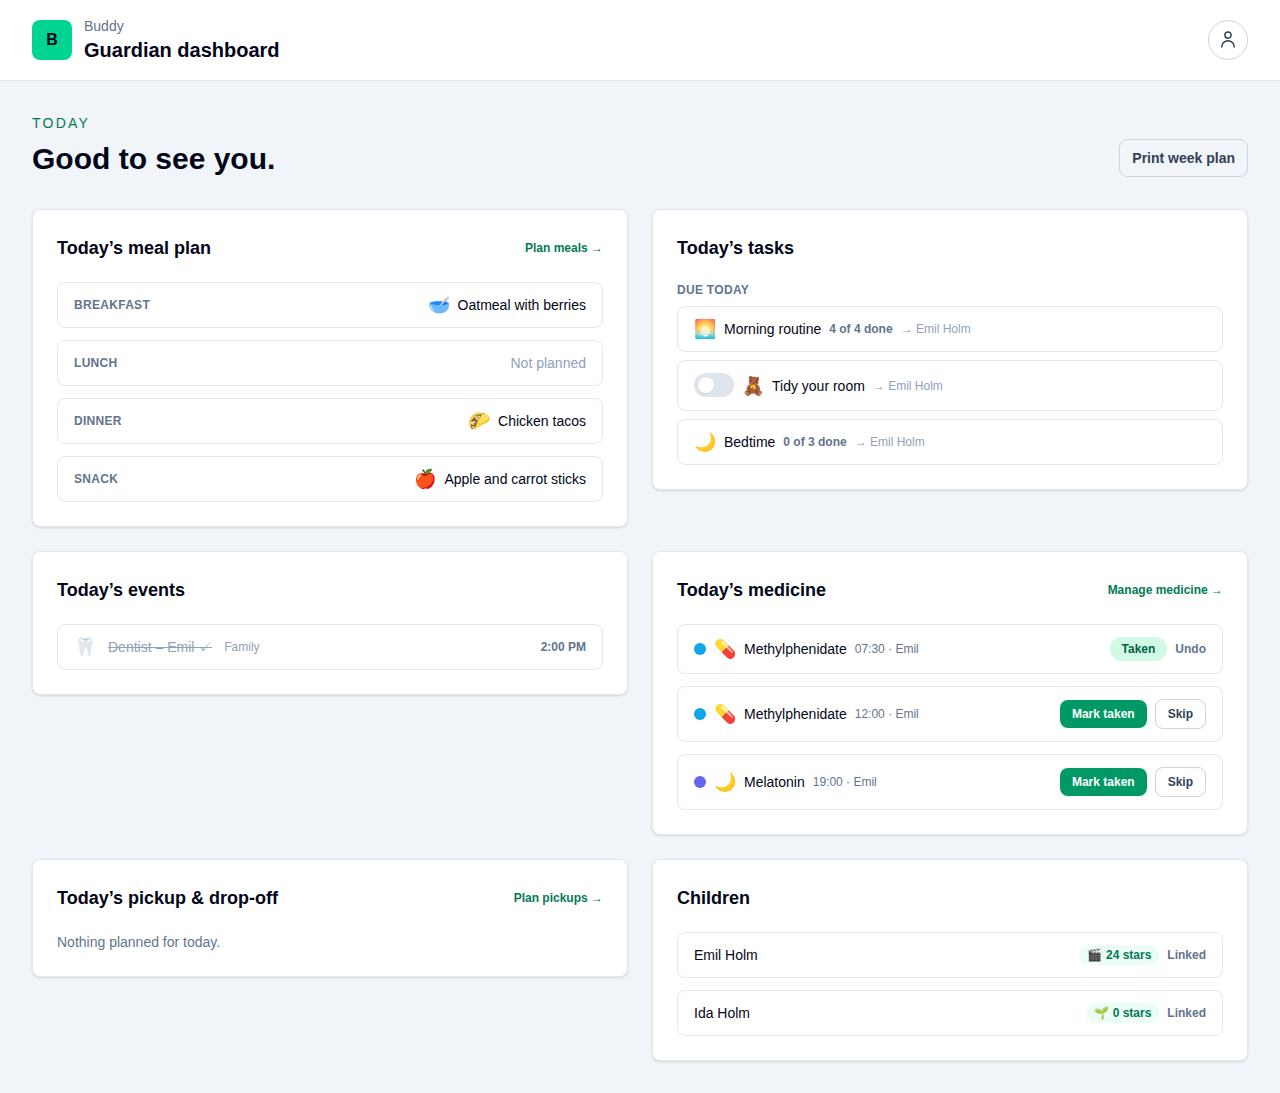
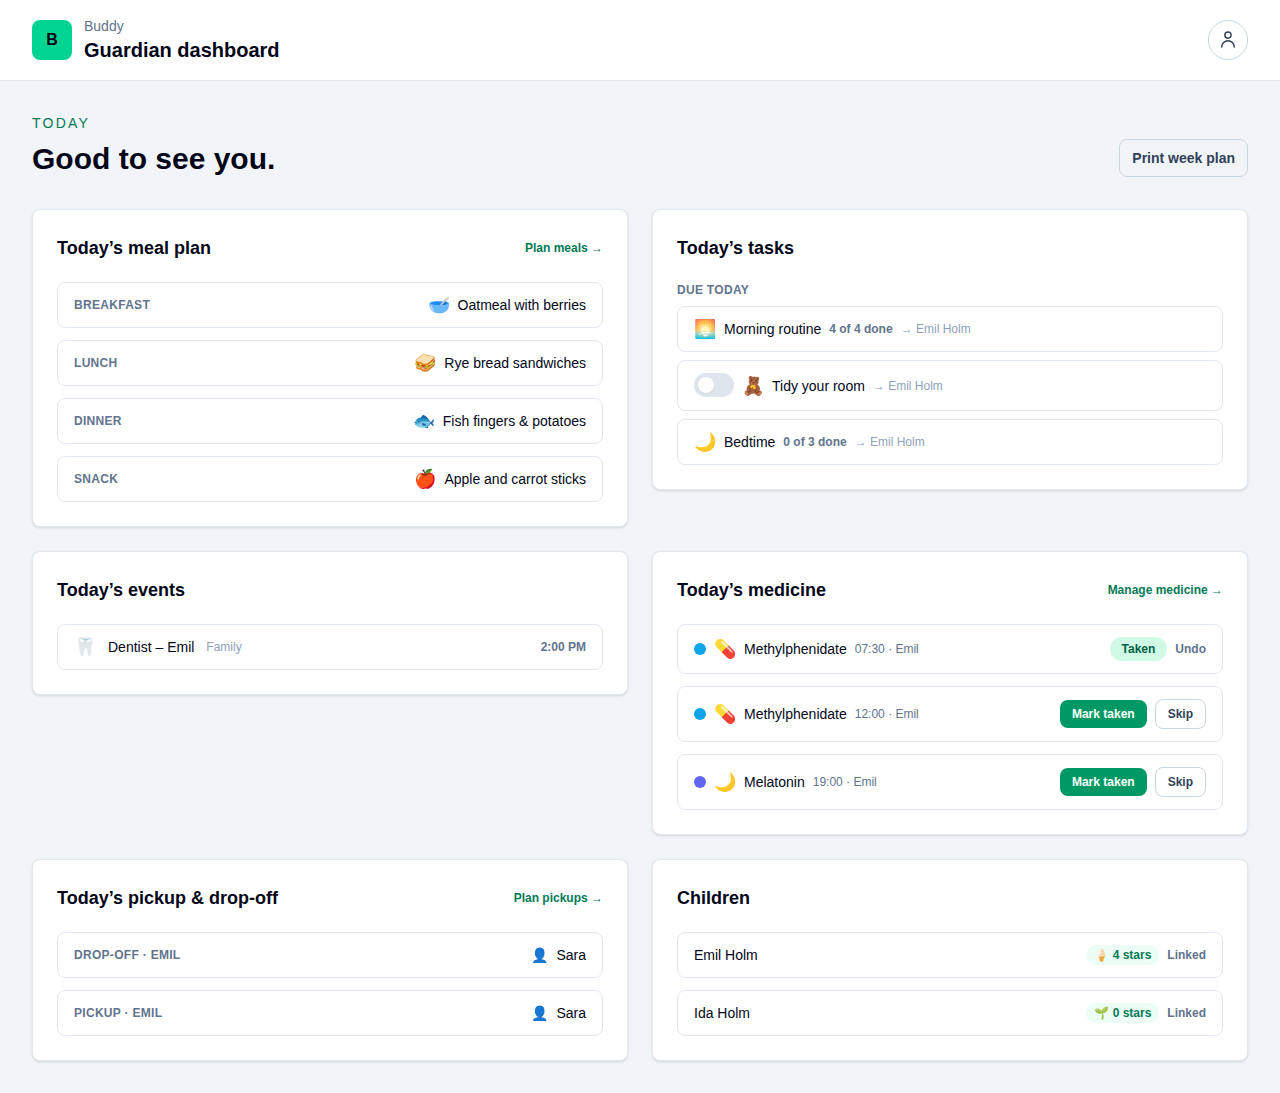
docs: sync documentation (auto)

diff --git a/docs/backend/analysis/babysitters.md b/docs/backend/analysis/babysitters.md
@@ -1,6 +1,10 @@
 # Babysitters
 
-Status: Proposed (not yet implemented)
+Status: Implemented. `Features/Babysitters` ships the `BabysitterList` aggregate, the five slices
+and routes below, the inline snapshot, golden files and integration tests; `Pickups` gains the
+`PickupAssignee.Babysitter` case (wire `kind` 4) with names resolved through `BabysitterNames`.
+The frontend ships `BabysittersService`, `/guardian/babysitters`, a "Babysitter" kind in the pickup
+planner, and babysitter names on the dashboard, the child home and the printed week plan.
 
 ## Context
 
@@ -121,9 +125,10 @@ PickupAssigneeDto, kind 4 = Babysitter:
   what a guardian fixing a typo expects. Copying the name into `PickupAssigned` would make the
   slot show the old spelling forever. `ListPickupSchedule` and `AssignPickup` both resolve
   names through one `BabysitterNames` lookup that loads each distinct owner's snapshot once per
-  request. An id that no longer resolves (the owner deleted their account) comes back with
-  `name: ""`, and clients fall back to the generic "Babysitter" label, as they already do for a
-  guardian they can't find.
+  request. Archived babysitters keep resolving, and so does a deleted account's list
+  (`UserDeleted` leaves the stream in place). Only an id missing from its owner's list would come
+  back with `name: ""`; clients then fall back to the generic "Babysitter" label, as they already
+  do for a guardian they can't find.
 - **The child sees the name, not the contact info.** Children can view their own pickup schedule
   ([pickups flow, Authorization model](../pickups/flow.md#authorization-model)), and "Anna picks
   you up" is the point of the feature. Contact info stays on the guardian-only list routes.
@@ -148,11 +153,13 @@ see a babysitter's name, through the pickup schedule.**
 
 - **Write routes are `/me` routes,** like `WorkLocations`, so the handler never takes a guardian
   id to write to.
-- **The per-child read reuses the pickup rule.** `GET /babysitters/children/{childId}` is
+- **The per-child read applies the pickup rule.** `GET /babysitters/children/{childId}` is
   allowed exactly when `PickupAuthorization.CheckManage` would allow writing that child's
   pickups: the caller is an active guardian of the child. That is the only place the dropdown is
-  used, so the two rules can't drift apart. It uses `IGuardianLinkEventStore.ListForChildAsync`
-  to find the guardians and loads each one's snapshot.
+  used. `BabysitterAuthorization.CheckPick` repeats that one `FindActiveLinkAsync` check rather
+  than calling into `Pickups`, which already depends on this feature for names. It uses
+  `IGuardianLinkEventStore.ListForChildAsync` to find the guardians and loads each one's
+  snapshot.
 - **Co-parents see each other's babysitters (requirement 2),** but only through a shared child.
   Two guardians with no child in common never see each other's lists.
 - **A revoked link takes effect immediately.** The child route lists current guardians on
@@ -235,8 +242,11 @@ The pickup routes don't change; `kind` 4 is accepted by the existing
 - **Pickup planner:** `pickup-cell` gets a fifth segment, "Babysitter", with a select of the
   child's babysitters (`ListChildBabysitters`, loaded once per child on the pickup page). With
   none saved, it shows a hint linking to `/guardian/babysitters`.
-- **Pickup views:** the guardian `pickup-today` card, the child home, and the printed week plan
-  show 🧑🍼 and the resolved name, falling back to "Babysitter".
+- **Pickup views:** the guardian `pickup-today` card and the child home show 🧑🍼 and the
+  resolved name; the printed week plan prints the name (no icon, like the other pickup kinds).
+  All fall back to "Babysitter".
+- **Re-saving an archived babysitter's slot** keeps Save disabled in the cell, with a hint that
+  the babysitter was removed, matching the backend's `400`.
 - **i18n:** `core/i18n/translations/{en,da}/babysitters.ts` ("Babysitters" / "Babysittere"),
   plus new pickup, dashboard, child home and print keys.
 - **Screenshots:** the new page in `screenshots/pages.ts`, and a seeded babysitter with one
@@ -266,7 +276,7 @@ Plus `EventShapeTests` golden files and a `SnapshotTests` entry.
 | Re-saving a slot whose babysitter is archived | `400`; the guardian picks someone else |
 | Babysitter renamed | Every slot shows the new name on the next read |
 | Owner's link to the child revoked | Their babysitters leave the child's picker; assigned slots keep the name |
-| Owner deletes their account | Slots resolve to `name: ""` and show the generic label |
+| Owner deletes their account | The list stays in place, so slots keep the name; the owner's link is gone, so their babysitters leave the picker |
 | Two babysitters with the same name | Rejected among active ones; an archived name can be reused |
 | Archive an already-archived babysitter | Idempotent `204`, no event |
 | Update with unchanged content | `200`, no event |

diff --git a/docs/backend/babysitters/flow.md b/docs/backend/babysitters/flow.md
@@ -1,0 +1,75 @@
+# Babysitters Flow
+
+The babysitters feature keeps one list of saved babysitters and nannies per guardian. Any
+active guardian of a child can pick from the lists of all that child's active guardians when
+planning a pickup or drop-off, through the `Babysitter` assignee (`kind` 4) of the
+[pickups feature](../pickups/flow.md).
+
+```mermaid
+sequenceDiagram
+    actor Guardian
+    actor CoGuardian as Co-guardian
+    actor Child
+    participant API as Buddy API
+    participant Babysitters as Babysitters feature
+    participant Pickups as Pickups feature
+    participant Guardians as Guardian links
+
+    Guardian->>API: POST /babysitters/me { name, contactInfo }
+    API->>Babysitters: AddBabysitter
+    Babysitters->>Babysitters: Start BabysitterList lazily, append BabysitterAdded
+    API-->>Guardian: 200 BabysitterSummary
+
+    CoGuardian->>API: GET /babysitters/children/{childId}
+    API->>Babysitters: ListChildBabysitters
+    Babysitters->>Guardians: Caller an active guardian? List the child's guardians
+    Babysitters-->>API: Active babysitters of every guardian, by name
+    API-->>CoGuardian: 200 ChildBabysitter[]
+
+    CoGuardian->>API: PUT /pickups/children/{childId}/assignments { kind: 4, guardianId, babysitterId }
+    API->>Pickups: AssignPickup
+    Pickups->>Guardians: guardianId an active guardian of the child?
+    Pickups->>Babysitters: babysitterId active on that guardian's list?
+    Pickups-->>API: PickupOccurrence with the resolved name
+    API-->>CoGuardian: 200 OK
+
+    Child->>API: GET /pickups/children/{childId}/schedule
+    API->>Pickups: ListPickupSchedule
+    Pickups->>Babysitters: Resolve names (one snapshot per owner)
+    API-->>Child: 200, babysitter name but no contact info
+```
+
+## Endpoints
+
+| Method | Route | Behavior |
+| --- | --- | --- |
+| `GET` | `/babysitters/me` | The caller's own list in the order added, archived babysitters included and flagged. |
+| `POST` | `/babysitters/me` | Adds a babysitter (name required, contact info optional). Starts the stream on first use. |
+| `PATCH` | `/babysitters/me/{babysitterId}` | Replaces name and contact info. No event when unchanged. |
+| `DELETE` | `/babysitters/me/{babysitterId}` | Archives the babysitter. Idempotent `204`. |
+| `GET` | `/babysitters/children/{childId}` | Active babysitters of every active guardian of the child, sorted by name, each with its owning `guardianId`. |
+
+Validation: name 1–80 characters, unique (case-insensitive) among the guardian's active
+babysitters; contact info at most 200 characters; at most 20 active babysitters per guardian.
+
+## Core lifecycle
+
+`BabysitterList` is an event-sourced aggregate with one stream per guardian, whose id equals
+the guardian's `UserId` (no index document). The stream holds:
+
+- `BabysitterListStarted`, appended together with the first `BabysitterAdded`;
+- `BabysitterAdded`, `BabysitterDetailsChanged` (before and after name and contact info), and
+  `BabysitterArchived`.
+
+Archiving keeps the entry, so pickup slots that point at it keep their name. An archived
+babysitter can't be edited or newly assigned. An inline snapshot in the shared `snapshots`
+schema serves every read.
+
+## Authorization model
+
+- **Manage** (`/me` routes): the caller themself. A child account gets `403`.
+- **Pick** (`/children/{childId}`): an active guardian of the child, the same rule as writing
+  that child's pickups. Anyone else, the child included, gets `404`.
+- Pickups show the babysitter's name to the child, never the contact info.
+
+See [Babysitters](../analysis/babysitters.md) for the design decisions.

diff --git a/README.md b/README.md
@@ -34,8 +34,8 @@ in real time.
 - [x] Private iCal subscription links for the family's meal plan
 - [x] Chat-based AI assistant that drafts meal-plan assignments, with
       BYOK AI provider settings management
-- [x] Pickup and drop-off scheduling (guardian, sibling, self-escort, and
-      playdate assignments)
+- [x] Pickup and drop-off scheduling (guardian, sibling, self-escort,
+      playdate, and babysitter assignments)
 - [x] Reusable task library with ordered, timed subtasks, schedulable onto a
       calendar
 - [x] Group and calendar sharing/permissions management
@@ -46,8 +46,7 @@ in real time.
 - [x] Printable A3/A4 landscape week plans from saved, shareable templates
 - [x] Guardian work locations with alternating weekly patterns and per-day
       exceptions
-- [ ] Saved babysitters/nannies for pickup and drop-off (proposed, not yet
-      implemented — see [Babysitters](docs/backend/analysis/babysitters.md))
+- [x] Saved babysitters/nannies for pickup and drop-off
 
 ### Child
 
@@ -125,8 +124,11 @@ deploy/      Production Docker Compose and Caddy deployment
   breakfast, lunch, dinner, and snacks, with meal rating and archival
   functionality.
 - **Pickup schedule** — a per-child weekly plan for pickup and drop-off slots,
-  with explicit guardian, sibling, self-escort, and playdate assignments. See
-  [Pickup and drop-off schedules](docs/backend/analysis/pickup-schedules.md).
+  with explicit guardian, sibling, self-escort, playdate, and babysitter
+  assignments. See [Pickup and drop-off schedules](docs/backend/analysis/pickup-schedules.md).
+- **Babysitter list** — each guardian's saved babysitters and nannies, which any
+  of a child's guardians can pick for a pickup slot. See
+  [Babysitters](docs/backend/analysis/babysitters.md).
 - **Task library** — a child-specific collection of reusable task templates
   with ordered, timed subtasks that a guardian can schedule onto a calendar.
   See [Task Library flow](docs/backend/task-library/flow.md).
@@ -142,6 +144,7 @@ deploy/      Production Docker Compose and Caddy deployment
 - [Medicines flow](docs/backend/medicines/flow.md)
 - [Mealplans flow](docs/backend/mealplans/flow.md)
 - [Pickups flow](docs/backend/pickups/flow.md)
+- [Babysitters flow](docs/backend/babysitters/flow.md)
 - [Task Library flow](docs/backend/task-library/flow.md)
 - [Progress flow](docs/backend/progress/flow.md)
 - [Glossary](docs/backend/glossary.md)
@@ -163,6 +166,7 @@ deploy/      Production Docker Compose and Caddy deployment
 - [Group-shared meal plans](docs/backend/analysis/group-owned-mealplans.md)
 - [Meal plan iCal feed](docs/backend/analysis/mealplan-ical-feed.md)
 - [Pickup and drop-off schedules](docs/backend/analysis/pickup-schedules.md)
+- [Babysitters](docs/backend/analysis/babysitters.md)
 - [Gamified progress](docs/backend/analysis/gamified-progress.md)
 
 ## Getting started

diff --git a/docs/backend/analysis/aggregate-roots.md b/docs/backend/analysis/aggregate-roots.md
@@ -32,6 +32,7 @@ flowchart TB
         MedicineSharing["MedicineSharing\nMedicineSharingId(Guid)"]
         PickupSchedule["PickupSchedule\nPickupScheduleId(Guid)"]
         WorkLocationSchedule["WorkLocationSchedule\nWorkLocationScheduleId(Guid)"]
+        BabysitterList["BabysitterList\nBabysitterListId(Guid)"]
         PrintTemplate["PrintTemplate\nPrintTemplateId(Guid)"]
         TaskTemplate["TaskTemplate\nTaskTemplateId(Guid)"]
         ChildProgress["ChildProgress\nProgressId(Guid)"]
@@ -57,6 +58,8 @@ flowchart TB
     MedicineSharing -- "sharedWithGroupId" --> Group
     PickupSchedule -- "childId (stored)" --> User
     PickupSchedule -- "assignments: guardianId / siblingChildId / assignedBy" --> User
+    PickupSchedule -- "assignments: babysitterId (on guardianId's list)" --> BabysitterList
+    BabysitterList -- "guardianId (stored, equals stream id)" --> User
     WorkLocationSchedule -- "guardianId (stored, equals stream id)" --> User
     PrintTemplate -- "owner (user or group); rows reference children, groups, calendars, work locations" --> User
     PrintTemplate -- "owner group" --> Group
@@ -100,7 +103,8 @@ flowchart TB
 | Meal | `Features/Mealplans/Types/Meal.cs` | `MealId(Guid)` | `createdBy` / `lastModifiedBy` → User; `ratings` (keys) → User |
 | MedicineSchedule | `Features/Medicines/Types/MedicineSchedule.cs` | `MedicineId(Guid)` | `childId`, `createdBy` / `lastModifiedBy` → User |
 | MedicineSharing | `Features/Medicines/Types/MedicineSharing.cs` | `MedicineSharingId(Guid)` | `childId` → User; `sharedWithGroupId` → Group |
-| PickupSchedule | `Features/Pickups/Types/PickupSchedule.cs` | `PickupScheduleId(Guid)` | `childId` → User; assignments' `guardianId` / `siblingChildId` / `assignedBy` → User |
+| PickupSchedule | `Features/Pickups/Types/PickupSchedule.cs` | `PickupScheduleId(Guid)` | `childId` → User; assignments' `guardianId` / `siblingChildId` / `assignedBy` → User; a babysitter assignment's `babysitterId` → a BabysitterList entry |
+| BabysitterList | `Features/Babysitters/Types/BabysitterList.cs` | `BabysitterListId(Guid)`, equal to the guardian's `UserId` | `guardianId` → User |
 | WorkLocationSchedule | `Features/WorkLocations/Types/WorkLocationSchedule.cs` | `WorkLocationScheduleId(Guid)`, equal to the guardian's `UserId` | `guardianId` → User |
 | PrintTemplate | `Features/PrintTemplates/Types/PrintTemplate.cs` | `PrintTemplateId(Guid)` | `owner` → User or Group; rows' `childId` / `guardianId` / `assignedToId` → User, `mealGroupId` → Group, `calendarIds` → Calendar, `workLocationId` → a WorkLocationSchedule location (references only, never access grants) |
 | TaskTemplate | `Features/TaskLibrary/Types/TaskTemplate.cs` | `TaskTemplateId(Guid)` | `createdBy` / `lastModifiedBy` → User; owning `childId` lives in `TaskTemplateIndexDocument`, not the aggregate itself |

diff --git a/docs/backend/pickups/flow.md b/docs/backend/pickups/flow.md
@@ -1,8 +1,8 @@
 # Pickups Flow
 
 The pickups feature stores a per-child plan for two dated slots: `DropOff` and
-`PickUp`. A guardian can assign a guardian, the child themself, a sibling, or a
-playdate host to either slot. An absent assignment means “not planned”; an
+`PickUp`. A guardian can assign a guardian, the child themself, a sibling, a
+playdate host, or a saved babysitter to either slot. An absent assignment means “not planned”; an
 explicit `SelfEscort` assignment means the guardian deliberately decided that
 the child needs no escort.
 
@@ -67,11 +67,14 @@ carrying only that case's fields (the domain's `PickupAssignee` union, on the wi
 | `1` | `SelfEscort` | None | Records that the child goes without an escort. |
 | `2` | `Sibling` | `siblingChildId` | Must be a different child who shares at least one active guardian with the scheduled child. |
 | `3` | `Playdate` | `hostName`, `location`, `contactInfo` | Host name is required; location and contact information are optional free text (`""` when not given). |
+| `4` | `Babysitter` | `guardianId`, `babysitterId`, `name` | `guardianId` must be an active guardian of the child and `babysitterId` an active babysitter on that guardian's list ([babysitters flow](../babysitters/flow.md)). `name` is output only: ignored on `PUT`, resolved from the list on every response (`""` when it no longer resolves). |
 
 A missing or unknown `kind`, or a case without its required field, is a
 `400 validation_error`. Every assignment can also carry an optional local
 wall-clock `time` and `notes` (`""` meaning none). The relationship check
-depends on the case: a guardian must be linked, a sibling must share a guardian.
+depends on the case: a guardian must be linked, a sibling must share a guardian, a
+babysitter must be on an active guardian's list. Archived babysitters can't be newly
+assigned, but slots already pointing at one keep resolving the name.
 
 ## Core lifecycle
 

diff --git a/docs/backend/http-status-codes.md b/docs/backend/http-status-codes.md
@@ -415,6 +415,18 @@ Note: `PUT /groups/{groupId}/medicine-permission-policy` is documented under the
 | `DELETE /pickups/children/{childId}/assignments?date=...&slot=...` | `204` | `401`, `403`, `404` | Idempotent: clearing an already-empty slot still returns `204`; `403` for a child attempting a write. |
 | `GET /pickups/children/{childId}/schedule?from=...&to=...` | `200` | `400`, `401`, `404` | `400` for a date range longer than 31 days or otherwise invalid. |
 
+A babysitter assignee (`kind` 4) is also `400` on `PUT` when its `guardianId` isn't an active guardian of the child or its `babysitterId` isn't an active babysitter on that guardian's list.
+
+### Babysitters API (`/babysitters`)
+
+| Endpoint | Success | Client error statuses | When to use |
+| --- | --- | --- | --- |
+| `GET /babysitters/me` | `200` | `401`, `403` | The caller's own list, archived babysitters included and flagged; `403` for a child account. |
+| `POST /babysitters/me` | `200` | `400`, `401`, `403` | `400` for a blank/oversized name, oversized contact info, a name already used by an active babysitter, or a 21st active babysitter; `403` for a child account. |
+| `PATCH /babysitters/me/{babysitterId}` | `200` | `400`, `401`, `403`, `404` | `404` for an unknown or archived babysitter; unchanged details are an idempotent `200` with no event. |
+| `DELETE /babysitters/me/{babysitterId}` | `204` | `401`, `403`, `404` | Archives (never deletes). Idempotent on an already-archived babysitter; `404` for an unknown one. |
+| `GET /babysitters/children/{childId}` | `200` | `401`, `404` | Active babysitters of every active guardian of the child; `404` unless the caller is an active guardian of the child (the child included). |
+
 ### Work Locations API (`/work-locations`)
 
 | Endpoint | Success | Client error statuses | When to use |

diff --git a/docs/frontend/README.md b/docs/frontend/README.md
@@ -78,6 +78,8 @@ The guardian routes currently include:
   meal-plan assignments
 - `/guardian/medicine` — medicine schedule management
 - `/guardian/pickup` — rolling seven-day pickup and drop-off assignment planner
+- `/guardian/babysitters` — the guardian's saved babysitters and nannies, which any of a child's
+  guardians can pick in the pickup planner
 - `/guardian/work-locations` — the guardian's own work locations, alternating weekly pattern, and
   per-day exceptions (used by the printable week plan; never shown to children)
 - `/guardian/print` — quick print: pick a template and a start date, preview, print; create templates
@@ -138,6 +140,8 @@ The shared domain services live under [src/frontend/buddy/src/app/core](../../sr
   subscription-token endpoints
 - `MedicinesService` manages medicine schedules, dose status, and group sharing
 - `PickupsService` lists, assigns, and clears pickup/drop-off occurrences
+- `BabysittersService` manages the guardian's own babysitters and lists the babysitters a child's
+  guardians can pick for that child
 - `PrintTemplatesService` manages print templates (layout, rows, guardian name colors); the
   `WeekPlanLoader` in `features/guardian/print` composes a week from the existing services
 - `WorkLocationsService` manages the guardian's work locations, pattern, and exceptions, and lists

diff --git a/docs/backend/glossary.md b/docs/backend/glossary.md
@@ -268,6 +268,14 @@ A one-off exception for a single date: a different location, or no location at a
 ### Co-guardian
 Another guardian who holds an active `GuardianLink` to at least one of the same children. Co-guardians can view each other's work locations.
 
+## Babysitter domain
+
+### BabysitterList
+A guardian's saved babysitters and nannies. One per guardian; its id equals the guardian's `UserId`. Any active guardian of a child can pick from the lists of all that child's active guardians when planning a pickup or drop-off.
+
+### Babysitter
+A saved entry on a `BabysitterList`: a name and optional free-text contact info. Removing one archives it so pickup slots that refer to it keep their name. A pickup slot refers to one as `PickupAssignee.Babysitter(GuardianId, BabysitterId)` and the name is resolved on every read.
+
 ## Event-sourced concepts
 
 ### Event stream

diff --git a/docs/backend/analysis/domain-model-diagram.md b/docs/backend/analysis/domain-model-diagram.md
@@ -104,6 +104,12 @@ classDiagram
         +DateOverrides Overrides
     }
 
+    class BabysitterList {
+        +BabysitterListId Id
+        +UserId GuardianId
+        +Babysitter[] Babysitters
+    }
+
     class PrintTemplate {
         +PrintTemplateId Id
         +PrintTemplateOwner Owner
@@ -143,6 +149,8 @@ classDiagram
     MedicineSharing --> Group : sharedWithGroupId
     PickupSchedule --> User : childId, assignments
     WorkLocationSchedule --> User : guardianId
+    BabysitterList --> User : guardianId
+    PickupSchedule ..> BabysitterList : babysitter assignments
     PrintTemplate --> User : owner or rows
     PrintTemplate --> Group : owner
     TaskTemplate --> User : createdBy, lastModifiedBy

diff --git a/docs/backend/analysis/event-stream-snapshots.md b/docs/backend/analysis/event-stream-snapshots.md
@@ -1,6 +1,6 @@
 # Event-Stream Snapshots
 
-Status: Implemented for all 16 event-sourced aggregates across all 11 modules. Questions 1-5
+Status: Implemented for all 17 event-sourced aggregates across all 12 modules. Questions 1-5
 below are resolved with what was actually built, including several real Marten/serialization
 constraints hit along the way that the original plan only flagged as possibilities — plus two
 more found during the full rollout (a `ValueTuple`-keyed dictionary/set gotcha, and a

diff --git a/docs/screenshots/README.md b/docs/screenshots/README.md
@@ -61,6 +61,12 @@ Who takes and fetches the child each day.
 
 ![Pickup & drop-off](guardian-pickup.png)
 
+## Babysitters
+
+Saved babysitters and nannies that any of a child’s guardians can plan for a pickup or drop-off.
+
+![Babysitters](guardian-babysitters.png)
+
 ## Work locations
 
 Where each guardian works on which weekday, as a repeating pattern.

diff --git a/docs/backend/README.md b/docs/backend/README.md
@@ -11,6 +11,7 @@ Backend documentation for the Buddy API.
 - [Medicines flow](medicines/flow.md)
 - [Mealplans flow](mealplans/flow.md)
 - [Pickups flow](pickups/flow.md)
+- [Babysitters flow](babysitters/flow.md)
 - [Work locations flow](work-locations/flow.md)
 - [Print templates flow](print-templates/flow.md)
 - [Task Library flow](task-library/flow.md)
